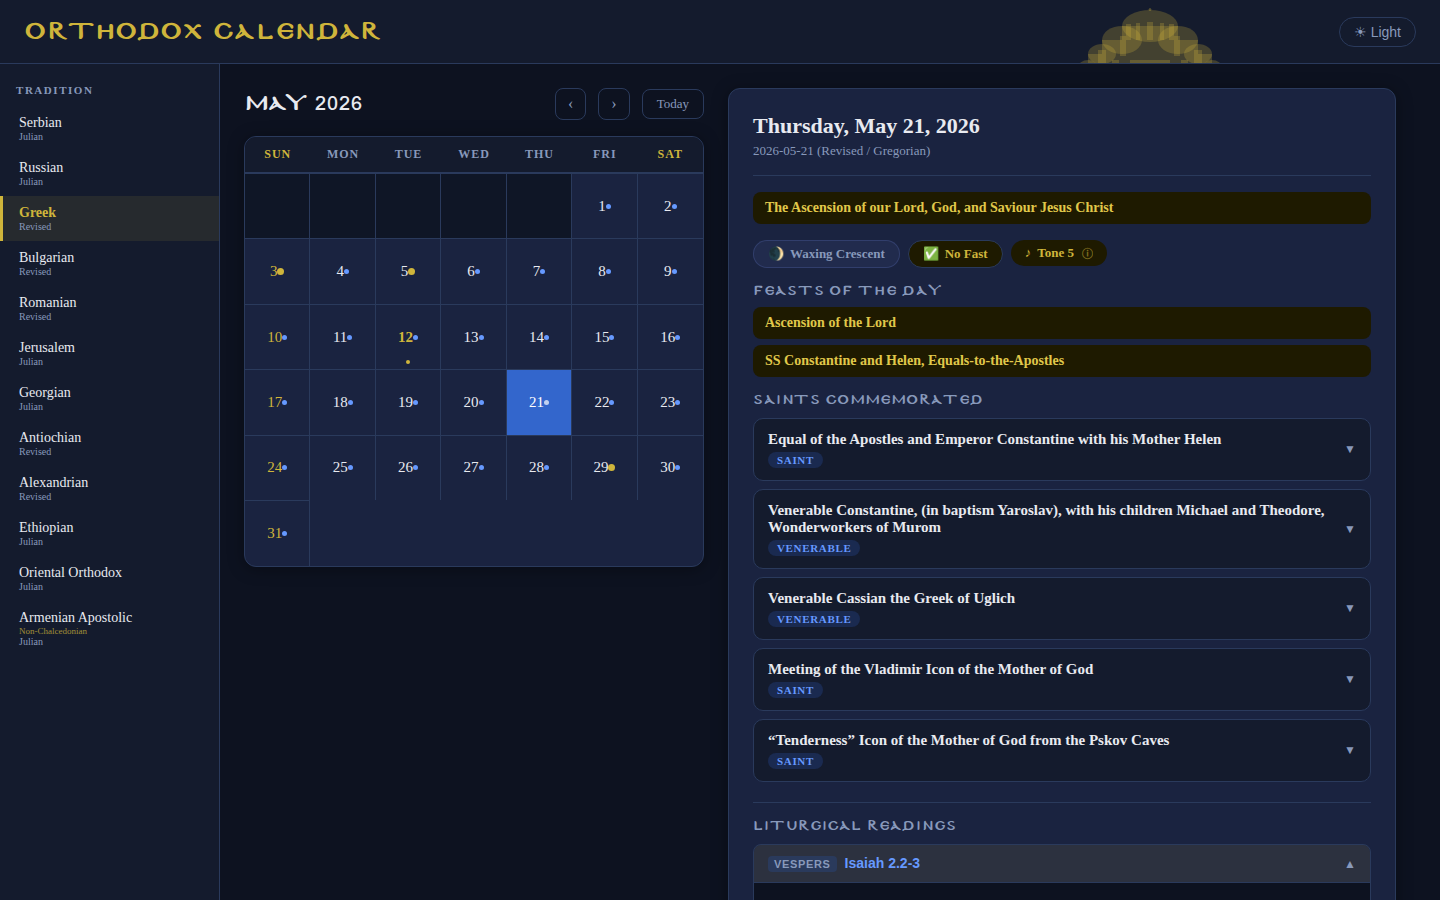
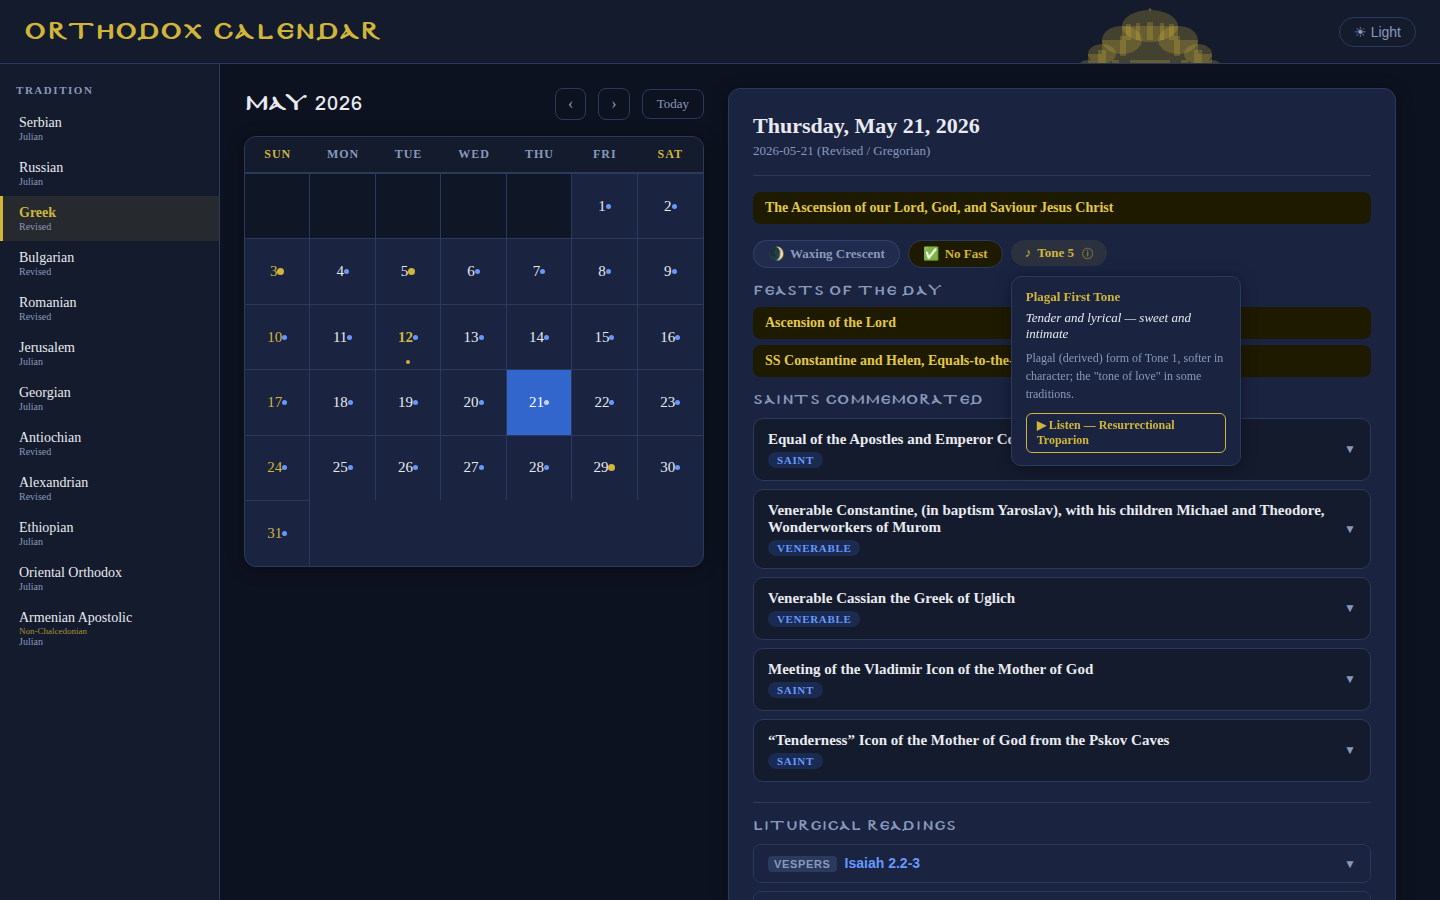
feat(frontend): tone YouTube links, mobile reading improvements
Each Octoechos tone popup now shows a ▶ Listen link to a corresponding
Resurrectional Troparion recording on YouTube (mixed traditions: Slavonic,
Byzantine Greek, Melkite). Mobile reading cards get larger touch targets,
bigger body text, and better line-height. Day detail header scales down
on small screens. Tone popup capped to viewport width to prevent overflow.

Changed region(s): [[0.6875, 0.2489, 0.875, 0.4978], [0.5, 0.9644, 0.9688, 1.0]]

diff --git a/frontend/src/App.jsx b/frontend/src/App.jsx
@@ -176,14 +176,14 @@ function fastingGlyph(fastLevel, fastException) {
 
 // ── Octoechos tone descriptions ─────────────────────────────────────────────
 const TONE_INFO = {
-  1: { name: "First Tone",        character: "Solemn and majestic — the mode of the Resurrection",    note: "Opens the eight-week Octoechos cycle after Pascha. Associated with resurrectional troparions and stichera." },
-  2: { name: "Second Tone",       character: "Gentle and tender — humble and meditative",             note: "A subdued, introspective mode suited to prayers of contrition and quiet praise." },
-  3: { name: "Third Tone",        character: "Balanced and calm — steady devotional reverence",       note: "A middle ground between the solemn and the joyful; used for unhurried, contemplative singing." },
-  4: { name: "Fourth Tone",       character: "Festive and bright — joyful and triumphant",            note: "Warm and expressive; often chosen for festal hymns and vigil canons." },
-  5: { name: "Plagal First Tone", character: "Tender and lyrical — sweet and intimate",              note: "Plagal (derived) form of Tone 1, softer in character; the \"tone of love\" in some traditions." },
-  6: { name: "Plagal Second Tone",character: "Mournful — penitential sorrow and longing",            note: "The tone of mourning; associated with repentance and deep longing for God." },
-  7: { name: "Grave Tone",        character: "Solemn and weighty — deep contemplation",              note: "Dark and serious; reserved for the most solemn moments in the liturgical year." },
-  8: { name: "Plagal Fourth Tone",character: "Grand and majestic — the fullness of praise",          note: "Richest and most complete tone; brings the eight-week Octoechos cycle to a noble close." },
+  1: { name: "First Tone",        character: "Solemn and majestic — the mode of the Resurrection",    note: "Opens the eight-week Octoechos cycle after Pascha. Associated with resurrectional troparions and stichera.",  youtube: "https://www.youtube.com/watch?v=_V_c2adKRbQ" },
+  2: { name: "Second Tone",       character: "Gentle and tender — humble and meditative",             note: "A subdued, introspective mode suited to prayers of contrition and quiet praise.",                             youtube: "https://www.youtube.com/watch?v=M0TwBgpyhko" },
+  3: { name: "Third Tone",        character: "Balanced and calm — steady devotional reverence",       note: "A middle ground between the solemn and the joyful; used for unhurried, contemplative singing.",              youtube: "https://www.youtube.com/watch?v=zJP_1RPGm_I" },
+  4: { name: "Fourth Tone",       character: "Festive and bright — joyful and triumphant",            note: "Warm and expressive; often chosen for festal hymns and vigil canons.",                                       youtube: "https://www.youtube.com/watch?v=H9-wPlQltpM" },
+  5: { name: "Plagal First Tone", character: "Tender and lyrical — sweet and intimate",              note: "Plagal (derived) form of Tone 1, softer in character; the \"tone of love\" in some traditions.",             youtube: "https://www.youtube.com/watch?v=KmiXfJ00am4" },
+  6: { name: "Plagal Second Tone",character: "Mournful — penitential sorrow and longing",            note: "The tone of mourning; associated with repentance and deep longing for God.",                                  youtube: "https://www.youtube.com/watch?v=VNKIcZP6ook" },
+  7: { name: "Grave Tone",        character: "Solemn and weighty — deep contemplation",              note: "Dark and serious; reserved for the most solemn moments in the liturgical year.",                             youtube: "https://www.youtube.com/watch?v=0vz8UIVy7LI" },
+  8: { name: "Plagal Fourth Tone",character: "Grand and majestic — the fullness of praise",          note: "Richest and most complete tone; brings the eight-week Octoechos cycle to a noble close.",                    youtube: "https://www.youtube.com/watch?v=xBo4eODl-yA" },
 };
 
 function ToneBadge({ toneNum }) {
@@ -221,6 +221,16 @@ function ToneBadge({ toneNum }) {
           <p className="tone-popup-name">{info.name}</p>
           <p className="tone-popup-char">{info.character}</p>
           <p className="tone-popup-note">{info.note}</p>
+          {info.youtube && (
+            <a
+              href={info.youtube}
+              target="_blank"
+              rel="noreferrer noopener"
+              className="tone-popup-listen"
+            >
+              ▶ Listen — Resurrectional Troparion
+            </a>
+          )}
         </div>
       )}
     </div>

diff --git a/frontend/src/styles.css b/frontend/src/styles.css
@@ -566,8 +566,24 @@ body {
 .tone-popup-note {
   font-size: 12px;
   color: var(--text-muted);
-  margin: 0;
+  margin: 0 0 10px;
   line-height: 1.5;
+}
+
+.tone-popup-listen {
+  display: inline-block;
+  font-size: 12px;
+  font-weight: 600;
+  color: var(--accent);
+  text-decoration: none;
+  border: 1px solid var(--accent);
+  border-radius: 6px;
+  padding: 4px 10px;
+}
+
+.tone-popup-listen:hover {
+  background: var(--accent);
+  color: var(--accent-text);
 }
 
 /* ── Feast items ── */
@@ -1127,5 +1143,51 @@ sup.verse-num {
 
   .main {
     padding: 16px;
+  }
+
+  /* Reading cards — more breathing room on small screens */
+  .reading-header {
+    padding: 14px 16px;
+    gap: 10px;
+  }
+
+  .reading-header-left {
+    gap: 6px;
+  }
+
+  .reading-ref {
+    font-size: 15px;
+  }
+
+  .reading-body {
+    padding: 14px 16px 16px;
+    font-size: 15px;
+    line-height: 1.8;
+  }
+
+  .reading-source {
+    font-size: 11px;
+  }
+
+  /* Tone popup — prevent overflow on narrow screens */
+  .tone-popup {
+    max-width: calc(100vw - 32px);
+    left: 0;
+    right: auto;
+  }
+
+  /* Day detail — tighter padding on phone */
+  .day-detail {
+    padding: 16px;
+  }
+
+  .day-detail-header h2 {
+    font-size: 18px;
+  }
+
+  /* Badges wrap nicely */
+  .day-badges {
+    flex-wrap: wrap;
+    gap: 6px;
   }
 }

diff --git a/README.md b/README.md
@@ -4,9 +4,10 @@ Open-source liturgical calendar for all canonical Orthodox and Oriental Orthodox
 
 [![Support on Ko-fi](https://img.shields.io/badge/Ko--fi-Support%20this%20project-ff5e5b?style=for-the-badge&logo=ko-fi&logoColor=white)](https://ko-fi.com/nikolareljin)
 
-![Orthodox Calendar — Greek tradition, Ascension of the Lord](docs/screenshots/greek-ascension.png)
+![Orthodox Calendar — Greek tradition, Ascension of the Lord with tone popup](docs/screenshots/greek-ascension.png)
 ![Orthodox Calendar — Georgian tradition, readings expanded](docs/screenshots/georgian-readings.png)
-![Orthodox Calendar — Serbian tradition, day detail](docs/screenshots/serbian-detail.png)
+![Orthodox Calendar — Serbian tradition, Transfiguration day detail](docs/screenshots/serbian-detail.png)
+![Orthodox Calendar — mobile view, Serbian tradition](docs/screenshots/mobile-view.png)
 
 ---
 
